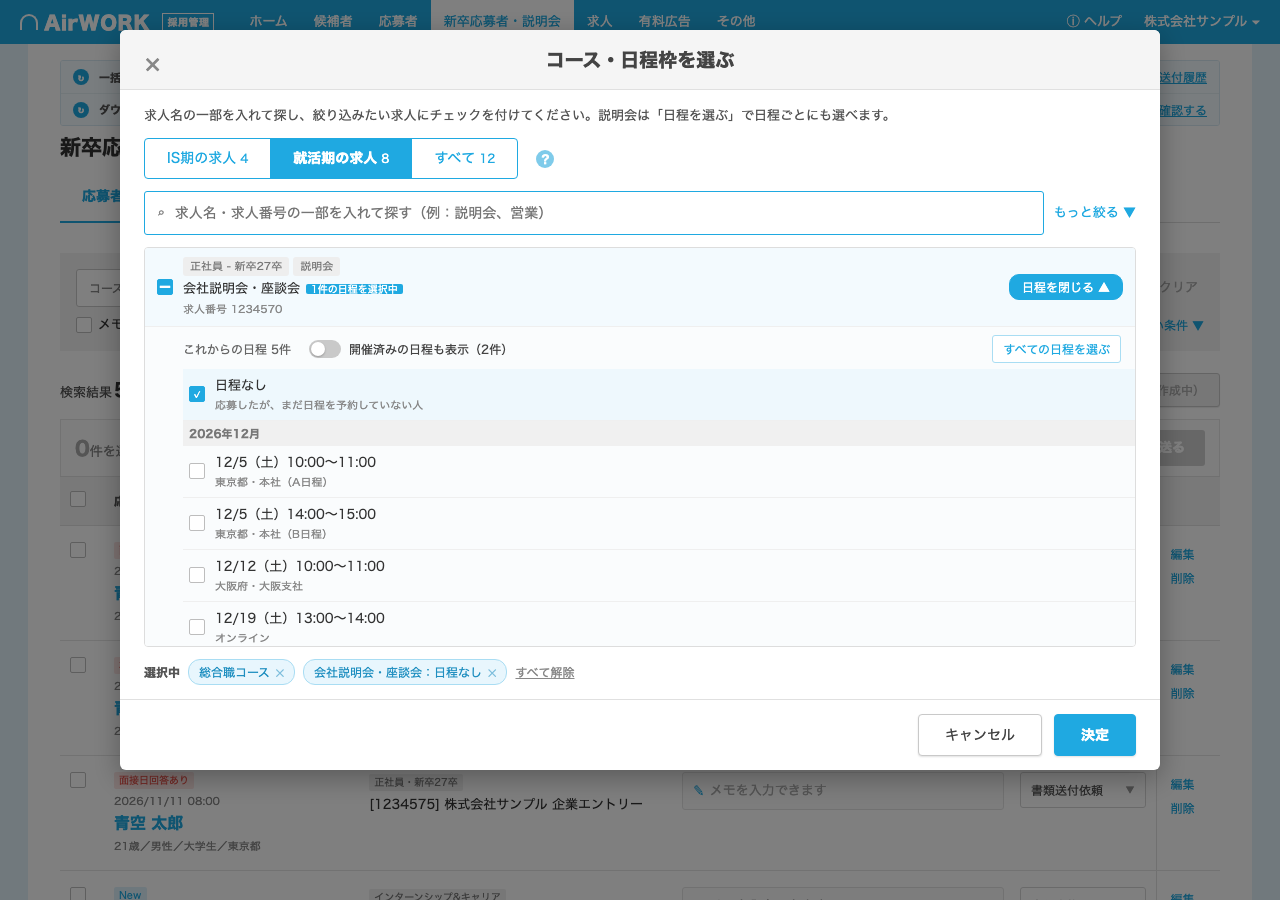
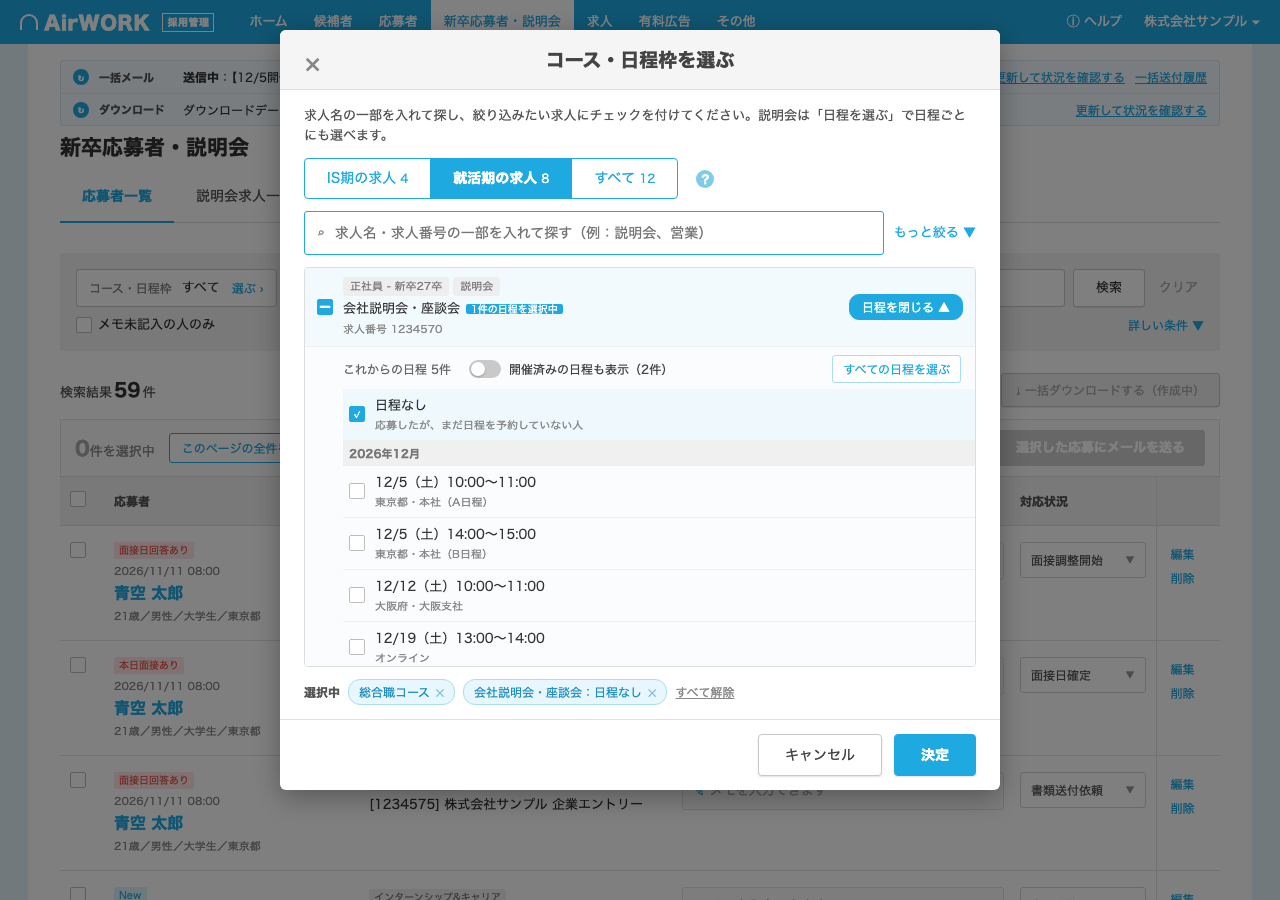
コース・日程枠モーダルの横幅を720pxに狭める

Changed region(s): [[0.0938, 0.0311, 0.9062, 0.9022], [0.6562, 0.3111, 0.75, 0.3733], [0.6562, 0.4044, 0.75, 0.4356]]

diff --git a/style.css b/style.css
@@ -133,7 +133,7 @@ td.cs { padding-left: 0; }
 
 /* モーダル */
 .ov { display: none; position: fixed; inset: 0; background: rgba(0,0,0,.5); z-index: 50; }
-.md { display: none; position: fixed; left: 50%; top: 30px; transform: translateX(-50%); width: 1040px; background: #fff; border-radius: 6px; overflow: hidden; box-shadow: 0 8px 28px rgba(0,0,0,.3); z-index: 51; }
+.md { display: none; position: fixed; left: 50%; top: 30px; transform: translateX(-50%); width: 720px; background: #fff; border-radius: 6px; overflow: hidden; box-shadow: 0 8px 28px rgba(0,0,0,.3); z-index: 51; }
 .ov.open, .md.open { display: block; }
 .mh { height: 60px; background: #F5F5F5; border-bottom: 1px solid #E0E0E0; display: flex; align-items: center; justify-content: center; position: relative; }
 .mh h2 { margin: 0; font-size: 19px; color: #444; }
@@ -346,7 +346,7 @@ body.dirty table, body.dirty .pager, body.dirty .pinfo, body.dirty .empty { opac
 .srch.big { height: 44px; border-color: #1FA9E1; }
 .srch.big input { font-size: 14px; }
 .morelk { color: #1FA9E1; font-size: 13px; cursor: pointer; white-space: nowrap; }
-.moreRow { display: none; gap: 10px; align-items: center; margin: -2px 0 12px; }
+.moreRow { display: none; gap: 8px 10px; align-items: center; flex-wrap: wrap; margin: -2px 0 12px; }
 .moreRow.open { display: flex; }
 .mtabs { display: none !important; }
 .slotlk { font-size: 12px; padding: 3px 12px; cursor: pointer; }
